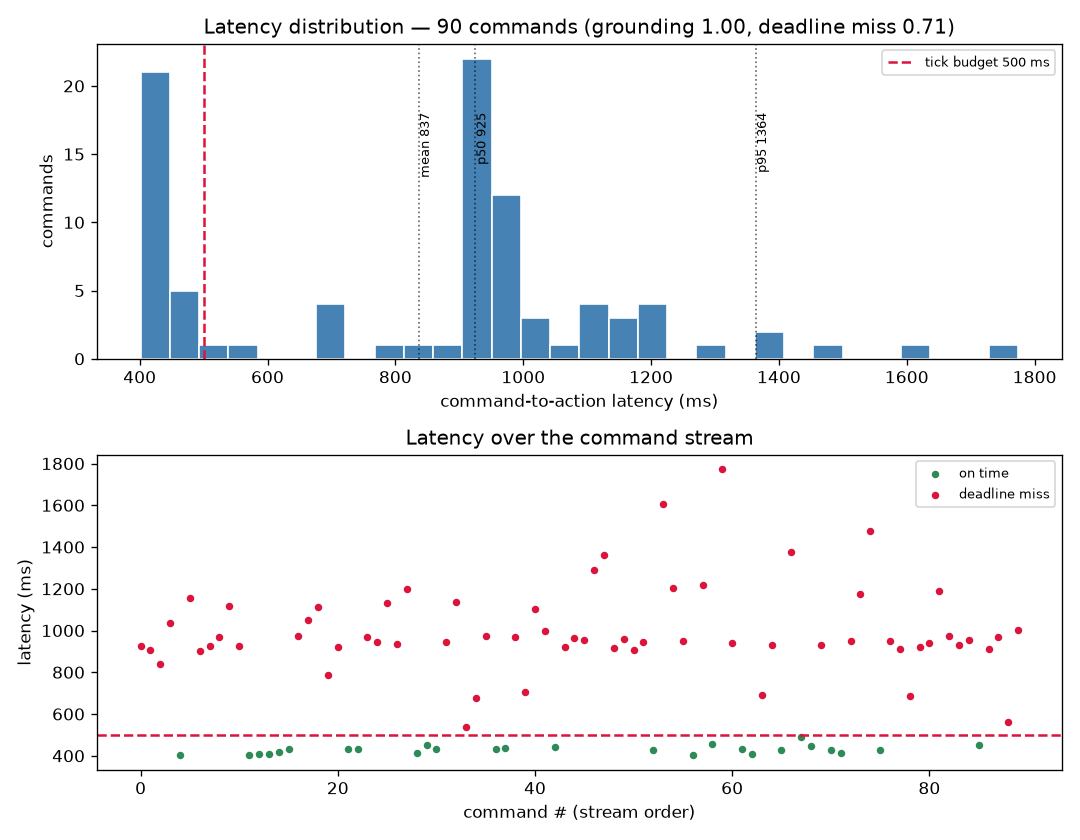
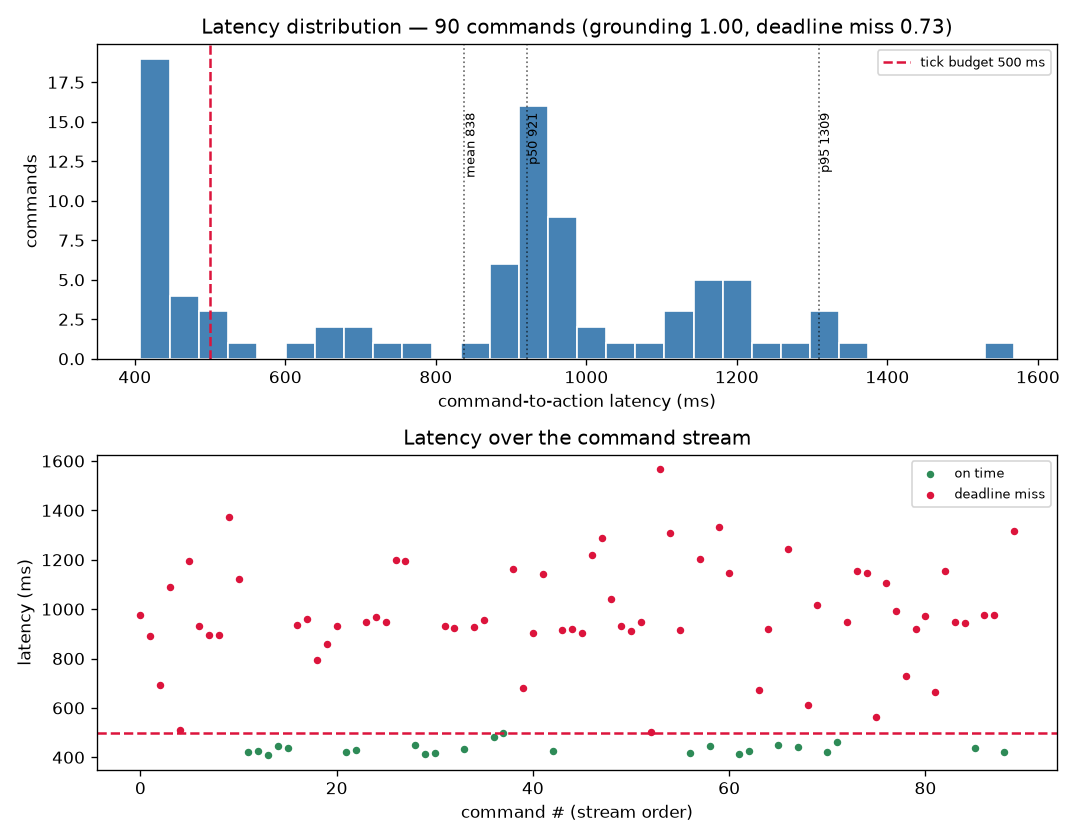
Report: explain the 500ms deadline choice, output tokens, and the three schemas
- report.html now has a "Why 500 ms?" note (real-time commander cadence ~2Hz, cf.
  AVA; one operating point, frontier is the real output) and a schema-section
  intro defining output token + output schema and introducing json/pairs/grouped.
- build_html_report extra_sections gained an optional raw-HTML "intro" before the
  figure. REPORT.md kept in sync.

diff --git a/scripts/build_report.py b/scripts/build_report.py
@@ -96,8 +96,24 @@ def main() -> None:
 
     # --- model-size overlay (from disk) ---
     mresults = load_model_results(outdir)
+    schema_intro = (
+        "<p>A language model writes its reply one <b>output token</b> at a time "
+        "(a token is a short chunk of text, very roughly &frac34; of a word), one "
+        "forward pass each, so <b>latency grows with the number of output tokens</b>. "
+        "An <b>output schema</b> is the format we require the reply to take (a "
+        "system-prompt instruction plus a parser). Same task, fewer tokens out, "
+        "lower latency. We compare three:</p>\n"
+        "<ul>\n"
+        "<li><b>json</b> (verbose baseline): <code>[{&quot;agent&quot;:&quot;red&quot;,"
+        "&quot;dir&quot;:&quot;N&quot;}]</code> — explicit keys per move, most tokens.</li>\n"
+        "<li><b>pairs</b> (terse): <code>red:N blue:N</code> — one agent:dir token per move.</li>\n"
+        "<li><b>grouped</b> (terse, exploits structure): <code>N: red blue</code> — the "
+        "direction once, then the agents moving it. Shortest, since every command shares "
+        "one direction across its targets.</li>\n"
+        "</ul>"
+    )
     sections = [{
-        "title": "Output-schema comparison", "png": s_overlay,
+        "title": "Output-schema comparison", "png": s_overlay, "intro": schema_intro,
         "table": build_schema_table(sresults, args.tick_ms),
         "caption": "Same task, different reply formats. A terser schema emits "
         "fewer output tokens, so its frontier sits to the left. Largest effect on "

diff --git a/arena/viz.py b/arena/viz.py
@@ -260,6 +260,7 @@ def build_html_report(report: dict, metrics_png: str | Path,
         uri = _data_uri_from_file(sec["png"])
         extra_sections_html += (
             f"<h2>{sec['title']}</h2>\n"
+            f"{sec.get('intro', '')}\n"          # raw HTML, rendered before the figure
             f'<img class="metrics" src="{uri}" alt="{sec["title"]}">\n'
             f"{sec.get('table', '')}\n"
             f'<p class="hint">{sec.get("caption", "")}</p>\n'
@@ -402,6 +403,13 @@ where the time goes.</p>
       A late action is <b>dropped</b> — it simply does not happen — and the world
       ticks on regardless. This is the real-time penalty: correct but late still loses.</dd>
 </dl>
+<p class="hint"><b>Why {m.get('tick_ms','?')} ms?</b> It is a real-time commander
+cadence — about two decisions per second, matching screenshot-driven VLM
+commanders for StarCraft II such as AVA (~2&nbsp;Hz). It is deliberately one
+operating point, not a hard truth: a single deadline that everything passes (or
+fails) measures nothing, whereas {m.get('tick_ms','?')} ms is discriminating here.
+The right deliverable is the whole <i>deadline frontier</i> below — performance vs
+budget — of which any single deadline is just one vertical slice.</p>
 
 <h2>Latency by command type</h2>
 <p>The arena issues three command forms: single-target, a positively named

diff --git a/REPORT.md b/REPORT.md
@@ -88,8 +88,11 @@ and output verbosity.
 
 ![deadline frontier](assets/frontier.png)
 
-**Output schema is the dominant latency lever (method result).** Running the same
-task under three reply formats (`scripts/schema_sweep.py`), all at grounding 1.00:
+**Output schema is the dominant latency lever (method result).** A model generates
+its reply one *output token* at a time (a token ≈ ¾ of a word), one forward pass
+each, so latency grows with the number of output tokens. An *output schema* is the
+required reply format (a system-prompt instruction + a parser). Running the same
+task under three schemas (`scripts/schema_sweep.py`), all at grounding 1.00:
 
 | schema | example | p50 latency | miss@500ms |
 |---|---|---|---|